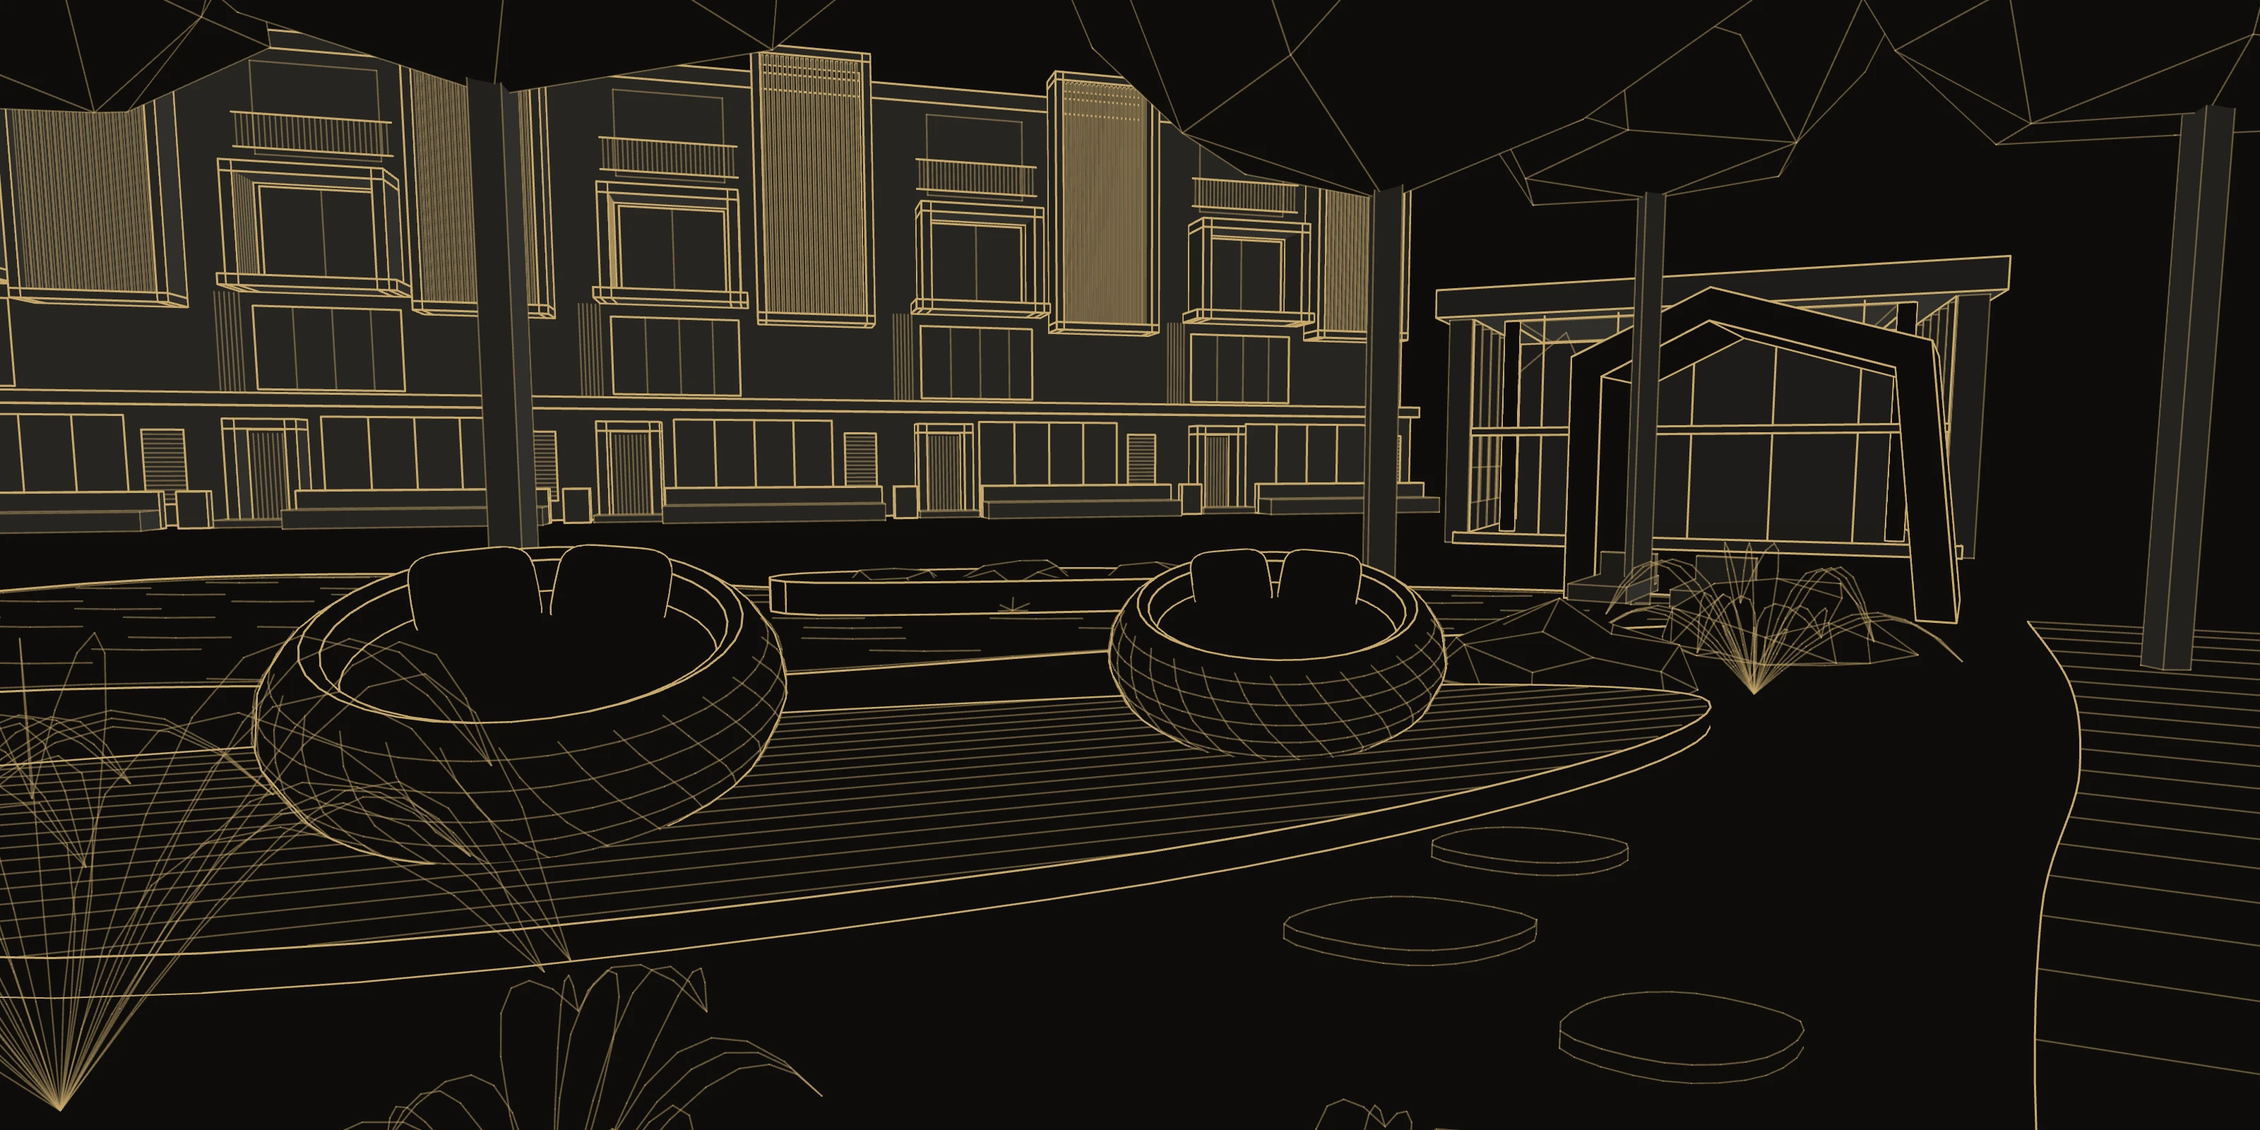
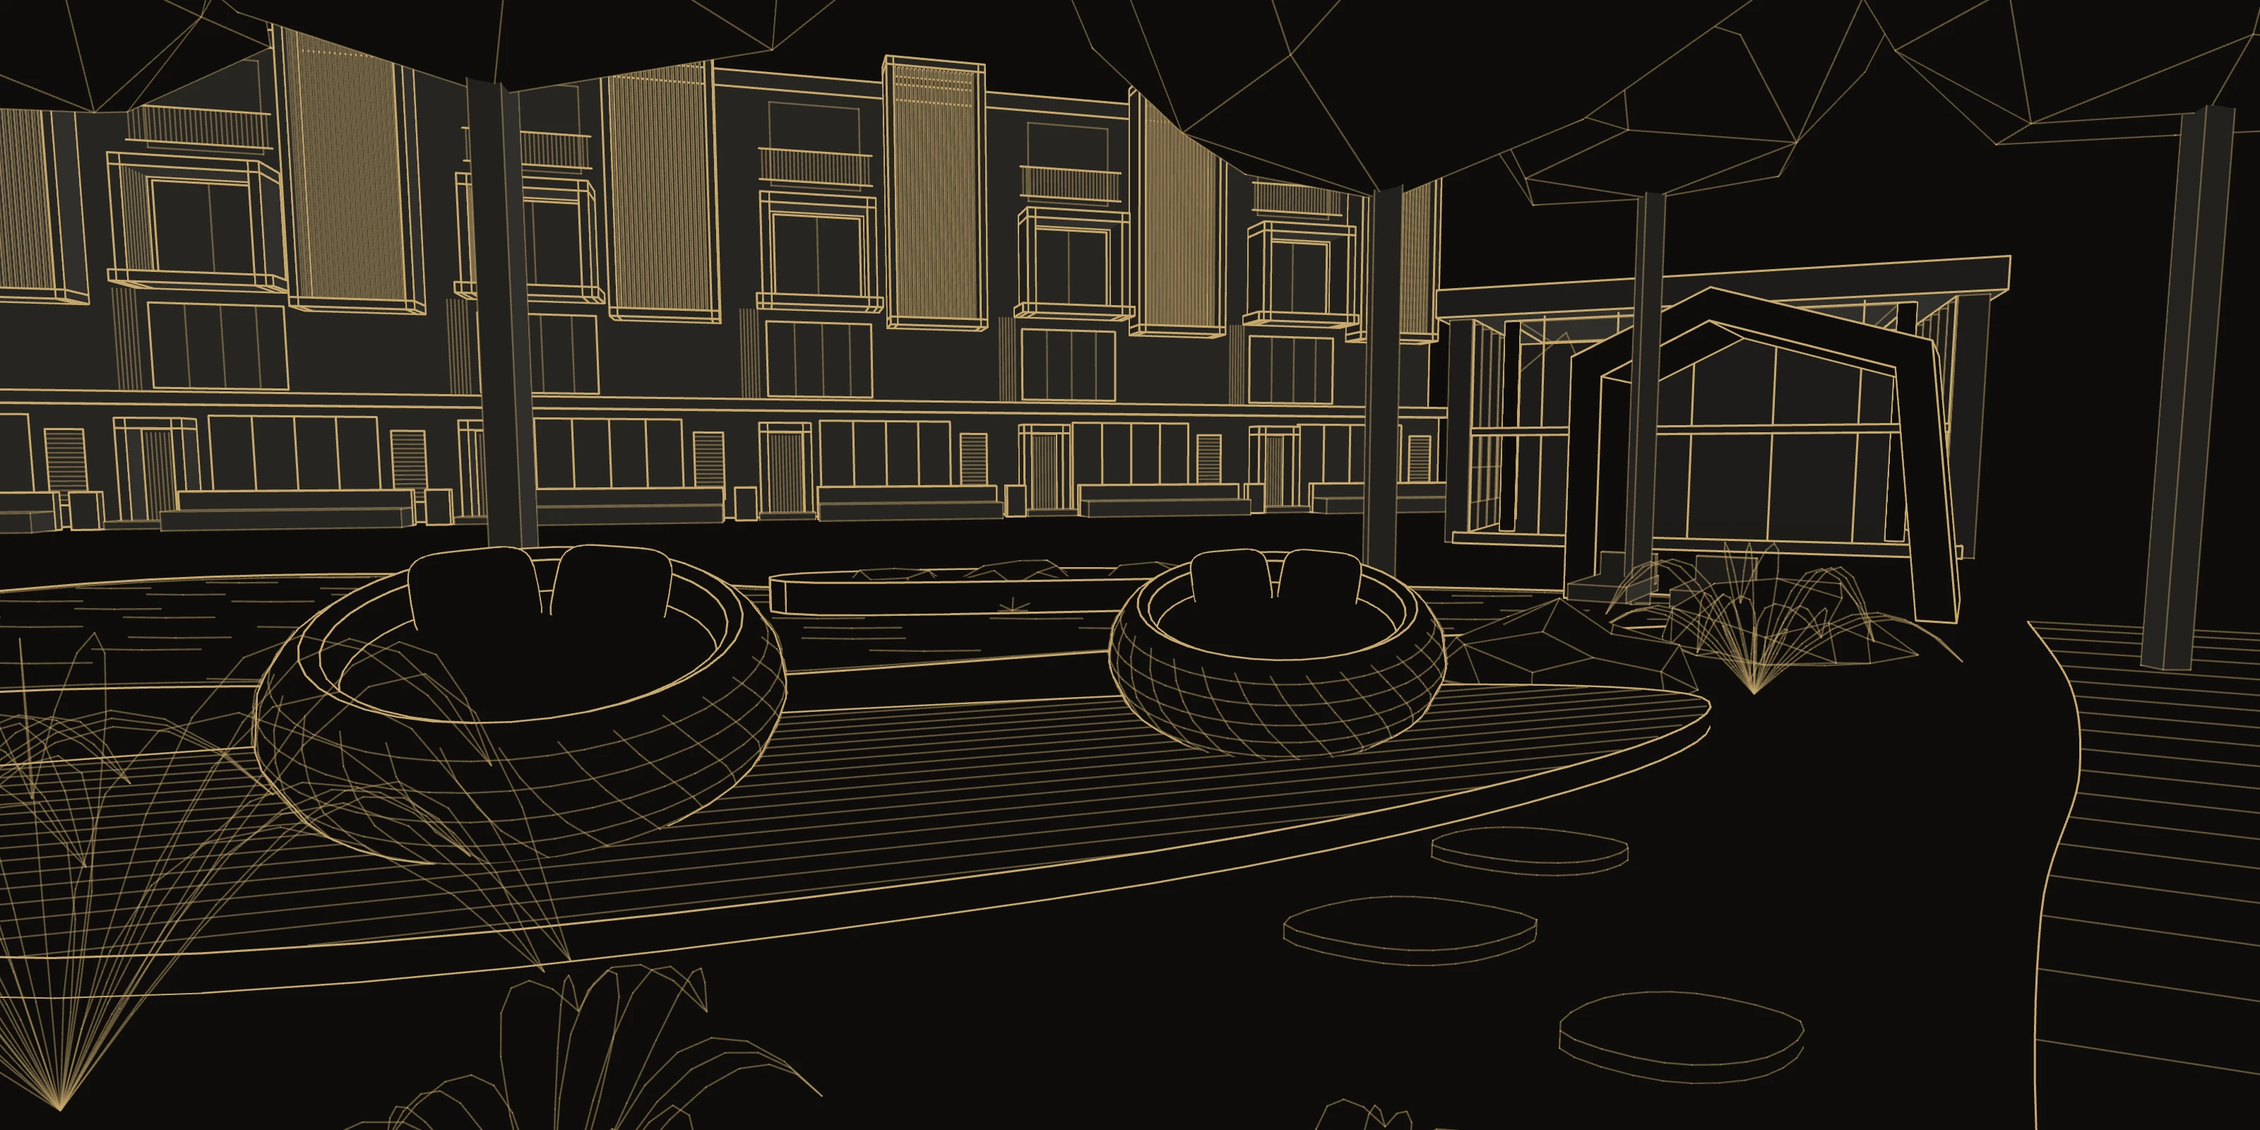
Use the brochure's plan widths, and say so
Courtyard Homes: the model is scaled so the upper floors are 9.15 m
across and the houses repeat at the 12.8 m plot width; the overlay
still lands on the render. Courtyard Villas: each home is 8.4 m wide
(rows elsewhere lengthened to fill their frames, stills regenerated).
The notes now say plan widths come from the developer's brochure and
heights are estimated from the render. Residences and the Idea chapter
gain facts from the brochure (plot and plan widths, the slope with the
car porch below the garden, the lift, the two villa types, gated and
guarded, dual-key layouts). The skill records the sources and rules.
Two stale lint errors in tools/ fixed. The brochure itself is not in
the repo.

Claude-Session: https://claude.ai/code/session_01C95DWHDY8NmwjfweiUBywE

Changed region(s): [[0.0, 0.0312, 0.6562, 0.4688]]

diff --git a/src/ink/homes.js b/src/ink/homes.js
@@ -1,15 +1,20 @@
 // Courtyard Homes for the ink stage: the middle house of the row in one-point perspective, a half of each neighbour.
-// Proportions are read off the developer's published render with the white frame as the ruler (7.70 m wide);
-// see docs/ink-plan.md, appendix A. Absolute sizes are not known. x runs along the street, y up, z towards the viewer;
-// the front face of the white frame is the plane z = 0.
+// Proportions are read off the developer's published render (docs/ink-plan.md, appendix A), in "render units" with the
+// white frame as 7.70. The developer's brochure gives the plan widths: the upper floors are 9.15 m across (frame to
+// dark tower) and a plot is 12.8 m wide, so everything is scaled by S to real metres. Heights are not in the brochure;
+// they follow the render at the same scale. This is the garden side: the house stands on a slope, with the car porch a
+// floor lower on the street side, so the glazed floor here is the brochure's Level 1.
+// x runs along the street, y up, z towards the viewer; the front face of the white frame is the plane z = 0.
 const WHITE = 0.97, DARK = 0.18, RECESS = 0.45, TIMBER = 0.76, METAL = 0.05, DECK = 0.9, SOFT = 0.62
 
-// eye 1.7 m, 26 m back, camera on the middle of the house
-export const VIEW = { cx: -0.2, cy: 6.4, width: 32, eye: 1.7, dist: 26, camX: -0.4 }
-export const CARD_VIEW = { ...VIEW, cx: -0.4, cy: 6.85, width: 29 }        // a 2:1 box under about 900 px: less street
-export const NARROW_VIEW = { ...VIEW, cx: -0.4, cy: 7.8, width: 21 }       // a squarer box, on a phone
-export const PITCH = 15.5                      // one house to the next, along the row (estimated)
-export const GROUND_Z = 2.8                    // front edge of the timber deck: where the ground line is drawn
+const S = 9.15 / (4.48 - -5.4)                   // render units → metres: frame-to-tower width is 9.15 m in the brochure
+const sv = (v) => ({ ...v, cx: v.cx * S, cy: v.cy * S, width: v.width * S, dist: v.dist * S, camX: v.camX * S })
+// eye 1.7 m, about 24 m back, camera on the middle of the house
+export const VIEW = sv({ cx: -0.2, cy: 6.4, width: 32, eye: 1.7, dist: 26, camX: -0.4 })
+export const CARD_VIEW = sv({ cx: -0.4, cy: 6.85, width: 29, eye: 1.7, dist: 26, camX: -0.4 })   // a 2:1 box under about 900 px: less street
+export const NARROW_VIEW = sv({ cx: -0.4, cy: 7.8, width: 21, eye: 1.7, dist: 26, camX: -0.4 })  // a squarer box, on a phone
+export const PITCH = 12.8                      // one house to the next along the row: the plot width in the brochure (2.15 + 10.65 m)
+export const GROUND_Z = 2.8 * S                // front edge of the timber deck: where the ground line is drawn
 
 // frame and bays
 const FX0 = -5.4, FX1 = 2.3, Y0 = 4.92, Y1 = 12.27, TB = 0.37, DZ = 1.2
@@ -20,30 +25,31 @@ const RW1 = 3.03, FIN1 = 3.39, FIN_TOP = 13.62, TW1 = 4.48, TW_TOP = 12.11
 const GX0 = -5.0, GL = [[-4.81, -1.24], [0.39, 3.96]], GY0 = 0.15, GY1 = 4.45, TRANSOM = 2.48, GZ = -0.25, ROOM = 5
 const S0 = 4.55, CX0 = -5.4, CX1 = 6.6, CZ = 0.62
 
-/** Rectangles tools/ink/overlay.cjs lays over the render: [x0, y0, x1, y1, z, group]. The bays are their openings in the frame face. */
+/** Rectangles tools/ink/overlay.cjs lays over the render: [x0, y0, x1, y1, z, group], in metres. The bays are their openings in the frame face. */
 export const OUTLINE = [
   [FX0, Y0, FX1, Y1, 0, 'frame'], [BX0, Y0, BX1, M0, 0, 'frame'], [BX0, M1, BX1, Y1 - TB, 0, 'frame'], [SX0, Y0, SX1, Y1 - TB, 0, 'frame'],
   [FIN1, Y0, TW1, TW_TOP, -0.3, 'frame'], [RW1, Y0, FIN1, FIN_TOP, -0.2, 'frame'],
   [CX0, S0, CX1, Y0, CZ + 0.08, 'slab'], [CX0, 3.23, CX1, S0, CZ, 'slab'],
   [GX0, 0, TW1, S0, 0, 'ground'], [GL[0][0], GY0, GL[0][1], GY1, GZ, 'ground'], [GL[1][0], GY0, GL[1][1], GY1, GZ, 'ground'],
-]
+].map(([a, b, c, d, z, g]) => [a * S, b * S, c * S, d * S, z * S, g])
 
 /** Things worth pointing at (x, y, z). Text states only what the render shows. */
 export const SPOTS = [
   { x: BX0 + 2.5, y: M1 + 2.1, z: -DZ, title: 'Recessed balconies', body: 'Two balconies, one above the other, set about a metre back inside a white frame, with sliding timber shutters either side of the glass.' },
   { x: (SX0 + SX1) / 2, y: Y0 + 2.2, z: -0.55, title: 'Timber screen', body: 'A full-height panel of upright timber fins beside the balconies, with glass behind it.' },
   { x: CX1 - 1.4, y: 3.9, z: CZ, title: 'Hanging slats', body: 'Horizontal timber slats hung from the edge of the first-floor slab, carried on past the end of the house.' },
-  { x: GL[1][0] + 1.2, y: 1.4, z: GZ, title: 'Ground floor', body: 'Glazed full height either side of a white pier. In the render a stair and furniture show through the glass.' },
+  { x: GL[1][0] + 1.2, y: 1.4, z: GZ, title: 'Garden floor', body: 'Glazed full height either side of a white pier, opening onto the garden. The house sits on a slope: in the brochure plans the car porch is a floor below, on the street side.' },
   { x: (FIN1 + TW1) / 2, y: 10.9, z: -0.3, title: 'Dark volume', body: 'A narrow dark block to one side with two small upright windows to the front.' },
-]
+].map((p) => ({ ...p, x: p.x * S, y: p.y * S, z: p.z * S }))
 
 /** One house. ox: offset along the row. faint: a neighbour, drawn a tone lighter and without the rooms behind its glass. */
 function house(k, ox = 0, faint = false) {
   const tone = (a) => (faint ? 1 - (1 - a) * 0.15 : a)
   const weight = (l) => (!faint || !l || l === 'hair' ? l : 'soft')
-  const box = (x, y, z, w, h, d, a = WHITE, o = {}) => k.box(x + ox, y, z, w, h, d, tone(a), { ...o, line: weight(o.line ?? 'main'), ...(faint ? { shade: false, flat: true } : {}) })
-  const seg = (pairs, l = 'main') => k.seg(pairs.map(([p, q]) => [[p[0] + ox, p[1], p[2]], [q[0] + ox, q[1], q[2]]]), weight(l))
-  const pane = (x0, y0, x1, y1, z, a0, a1) => k.pane(x0 + ox, y0, x1 + ox, y1, z, tone(a0), tone(a1))
+  // everything below is in render units; these three turn it into metres and place it along the row
+  const box = (x, y, z, w, h, d, a = WHITE, o = {}) => k.box(x * S + ox, y * S, z * S, w * S, h * S, d * S, tone(a), { ...o, line: weight(o.line ?? 'main'), ...(faint ? { shade: false, flat: true } : {}) })
+  const seg = (pairs, l = 'main') => k.seg(pairs.map(([p, q]) => [[p[0] * S + ox, p[1] * S, p[2] * S], [q[0] * S + ox, q[1] * S, q[2] * S]]), weight(l))
+  const pane = (x0, y0, x1, y1, z, a0, a1) => k.pane(x0 * S + ox, y0 * S, x1 * S + ox, y1 * S, z * S, tone(a0), tone(a1))
   const heavy = { line: 'heavy' }, none = { line: false }, clean = { line: false, clean: true }
   const bar = (x0, y0, x1, y1, z, d = 0.07) => box((x0 + x1) / 2, (y0 + y1) / 2, z, x1 - x0, y1 - y0, d, METAL, none)
 

diff --git a/tools/drawings/scenes/villas.js b/tools/drawings/scenes/villas.js
@@ -1,13 +1,15 @@
 // Courtyard Villas：照效果图画。沿着泳池一长排，一个单元一个单元重复：
 // 一整片白边框的竖木格栅（三楼到屋顶）、旁边一个往外挑的白色方框（里面木内衬 + 窗）、再上面一层凹阳台（黑栏杆）；
-// 底层玻璃，每户门口一个白色门框，木百叶小窗；前面一个自由曲线的泳池和小岛。米数是按图估的。
+// 底层玻璃，每户门口一个白色门框，木百叶小窗；前面一个自由曲线的泳池和小岛。
+// 立面细节按效果图量（一个单元当 9.6 个「图上单位」）；开发商手册给的每户宽是 8.4 m，所以沿排的方向乘 KX 缩到真实宽度。高度按图估。
 /** 一排 Courtyard Villas：从 x = ox 开始 n 个单元，正面朝 +z（在 z = oz），ry 转向。别的图（泳池、鸟瞰、健身房窗外）也用 */
-export function villaRow(k, { n = 7, ox = 0, oz = 0, ry = 0, ground = true, yard = false } = {}) {
+export function villaRow(k, { n = 8, ox = 0, oz = 0, ry = 0, ground = true, yard = false } = {}) {
   const { box: box0, seg: seg0 } = k
   // 局部坐标 → 世界：先绕 y 转 ry，再平移到 (ox, oz)
   const cs = Math.cos(ry), sn = Math.sin(ry)
-  const T = (x, y, z) => [ox + x * cs + z * sn, y, oz - x * sn + z * cs]
-  const box = (x, y, z, w, h, d, o = {}) => { const [X, , Z] = T(x, y, z); box0(X, y, Z, w, h, d, { ...o, ry: ry + (o.ry || 0) }) }
+  const KX = 8.4 / 9.6                                 // 手册：每户 8.4 m 宽
+  const T = (x, y, z) => [ox + x * KX * cs + z * sn, y, oz - x * KX * sn + z * cs]
+  const box = (x, y, z, w, h, d, o = {}) => { const [X, , Z] = T(x, y, z); box0(X, y, Z, w * KX, h, d, { ...o, ry: ry + (o.ry || 0) }) }
   const seg = (pairs, soft) => seg0(pairs.map(([p, q]) => [T(...p), T(...q)]), soft)
   const N = n, PITCH = 9.6, X1 = N * PITCH, G = 3.4, B = 3.75, TOP = 13.6
   const rect = (x0, y0, x1, y1, z, soft = true) => seg([[[x0, y0, z], [x1, y0, z]], [[x1, y0, z], [x1, y1, z]], [[x1, y1, z], [x0, y1, z]], [[x0, y1, z], [x0, y0, z]]], soft)
@@ -57,12 +59,12 @@ export function villaRow(k, { n = 7, ox = 0, oz = 0, ry = 0, ground = true, yard
       box(x + 6.0, 0.25, 2.3, 6.4, 0.5, 1.1, { soft: true })
     }
   }
-  return { x1: X1 }
+  return { x1: X1 * KX }
 }
 
 export default function villas(k) {
   const { tree, smoothLoop, loop, slabShape } = k
-  villaRow(k)
+  villaRow(k, { n: 8 })
   // ── 前面的泳池：自由曲线，池边一圈 + 里面一圈；中间一个种满植物的岛；走道边线
   const pool = smoothLoop([[-6, 4], [10, 3.6], [24, 5], [38, 4.4], [52, 6], [62, 9], [58, 15], [40, 13], [26, 17], [12, 15], [0, 18], [-10, 13]])
   loop(pool, 0.02); loop(pool.map(([x, z]) => [x + (x - 26) * -0.012, z + (z - 10) * -0.06]), 0.02, true)

diff --git a/src/components/Residences.jsx b/src/components/Residences.jsx
@@ -13,7 +13,8 @@ const units = [
     size: '6,649 – 9,053 sqft',
     price: 'From RM 8.1M',
     img: `${import.meta.env.BASE_URL}drawings/homes-ink.webp`,
-    live: true
+    live: true,
+    facts: 'Upper floors 9.15 m wide on a plot 12.8 m wide (3,175 – 3,466 sqft of land). Built into a slope: the car porch is at street level, the garden a floor up. A lift in every home.'
   },
   {
     type: '1.5 & 2-Storey Condominium',
@@ -23,7 +24,8 @@ const units = [
     size: '2,734 – 5,176 sqft',
     price: 'From RM 3.3M',
     img: `${import.meta.env.BASE_URL}drawings/villas-ink.webp`,
-    plate: 'villas'
+    plate: 'villas',
+    facts: 'Each home 8.4 m wide. Two kinds: 2-storey with 6 bedrooms, and 1.5-storey with 4 bedrooms, each with its own courtyard.'
   }
 ]
 
@@ -116,7 +118,8 @@ export default function Residences() {
             </div>
             <p className="res-note">
               {u.live ? 'Shadows follow the sun over George Town now · drag across to move the day. ' : 'Shadows follow the sun over George Town now. '}
-              Which way the {u.live ? 'house faces' : 'row faces'} is not known, so the light is kept in front; above 52° the sun is drawn at 52°. Not to scale.
+              Which way the {u.live ? 'house faces' : 'row faces'} is not known, so the light is kept in front; above 52° the sun is drawn at 52°.
+              Plan widths from the developer’s brochure; heights estimated from the render.
             </p>
 
             <div style={{
@@ -144,6 +147,7 @@ export default function Residences() {
                 <span>·</span>
                 <span>{u.parking} Parking</span>
               </div>
+              {u.facts && <p style={{ fontSize: '0.74rem', lineHeight: 1.8, color: 'rgba(42,38,34,0.62)', margin: '0 0 1.2rem', maxWidth: 460 }}>{u.facts}</p>}
               <div style={{
                 paddingTop: '1rem',
                 borderTop: '1px solid rgba(42,38,34,0.1)',

diff --git a/tools/drawings/scenes/gym.js b/tools/drawings/scenes/gym.js
@@ -90,8 +90,8 @@ export default function gym(k) {
   for (const x of [-1.85, -0.6, 0.65]) treadmill(k, x, 3.3)
   bike(k, 2.25, 3.7, 0.35)
   // 外面：两排别墅面对面
-  villaRow(k, { n: 7, ox: 12, oz: -58, ry: -Math.PI / 2, ground: false, yard: true })
-  villaRow(k, { n: 7, ox: -12, oz: 10, ry: Math.PI / 2, ground: false, yard: true })
+  villaRow(k, { n: 8, ox: 12, oz: -58, ry: -Math.PI / 2, ground: false, yard: true })
+  villaRow(k, { n: 8, ox: -12, oz: 10, ry: Math.PI / 2, ground: false, yard: true })
   // 长泳池：从亭子前面一直往里，尽头往左拐一点
   const pool = smoothLoop([[-4.4, -1.5], [4.6, -1.5], [4.4, -16], [3.8, -30], [3.2, -42], [0.5, -52], [-4, -56], [-6, -50], [-3.6, -40], [-3.8, -26], [-4.3, -12]], 6)
   loop(pool, 0.02); loop(pool.map(([x, z]) => [x * 0.9, z * 0.99 - 0.1]), 0.02, true)

diff --git a/tools/drawings/scenes/pool.js b/tools/drawings/scenes/pool.js
@@ -14,8 +14,8 @@ export default function pool(k) {
   const eye = [2.6, 1.7, 25]
   k.groundPlane()
   // 两排别墅：右边朝 -x、左边朝 +x，前院矮墙 + 花槽
-  villaRow(k, { n: 8, ox: 16, oz: -64, ry: -Math.PI / 2, ground: false, yard: true })
-  villaRow(k, { n: 8, ox: -16, oz: 14, ry: Math.PI / 2, ground: false, yard: true })
+  villaRow(k, { n: 9, ox: 16, oz: -64, ry: -Math.PI / 2, ground: false, yard: true })
+  villaRow(k, { n: 9, ox: -16, oz: 14, ry: Math.PI / 2, ground: false, yard: true })
   // 尽头的健身亭（正面朝这边），里面看得到几台跑步机
   pavilion(k, { ox: -1, oz: -23.5, W: 15, D: 9, H: 7, eye })
   for (const x of [-5, -3.4, -1.8]) treadmill(k, x, -26)

diff --git a/src/ink/InkDrawing.jsx b/src/ink/InkDrawing.jsx
@@ -7,7 +7,7 @@ import { dayOf, lightAt, clockOf } from './light'
 const INK = '#211e1a', PAPER = '#efe8da', ACC = '#bd7f1f', DISC = '#dba84a'
 const MIN = 60000
 // trees stand in the gaps between the houses, a little in front of the deck
-const TREES = [{ x: -7.2, z: GROUND_Z + 0.6, h: 8.6, seed: 7 }, { x: 8.4, z: GROUND_Z + 0.6, h: 8.2, seed: 21 }]
+const TREES = [{ x: -6.1, z: GROUND_Z + 0.8, h: 8.2, seed: 7 }, { x: 7.0, z: GROUND_Z + 0.8, h: 7.8, seed: 21 }]
 // a smaller or squarer box shows less street, so the house is drawn larger
 const NARROW = 560
 const viewFor = (w, h) => (h / w > 0.6 ? NARROW_VIEW : w < 900 ? CARD_VIEW : VIEW)

diff --git a/src/components/Idea.jsx b/src/components/Idea.jsx
@@ -52,8 +52,9 @@ export default function Idea() {
           {`239 homes on 12 acres,\nlaid out around courtyards.`}
         </SplitText>
         <p className="idea-fade idea-body">
-          An enclave in George Town with two home types — Courtyard Homes and Courtyard Villas —
-          set among gardens, pools and pedestrian bridges.
+          A low-density, gated and guarded enclave in George Town with two home types — Courtyard Homes and
+          Courtyard Villas — set among gardens, pools and pedestrian bridges. Dual-key layouts let several
+          generations live under one roof.
         </p>
       </div>
 

diff --git a/tools/drawings/scenes/entrance.js b/tools/drawings/scenes/entrance.js
@@ -16,8 +16,6 @@ export default function entrance(k) {
   const { box, seg, tree, bush, line } = k
   const eye = [-13.5, 1.6, 16]
   k.groundPlane()
-  const rectZ = (x0, y0, x1, y1, z, soft = false) => seg([[[x0, y0, z], [x1, y0, z]], [[x1, y0, z], [x1, y1, z]], [[x1, y1, z], [x0, y1, z]], [[x0, y1, z], [x0, y0, z]]], soft)
-  const rectX = (z0, y0, z1, y1, x, soft = false) => seg([[[x, y0, z0], [x, y0, z1]], [[x, y0, z1], [x, y1, z1]], [[x, y1, z1], [x, y1, z0]], [[x, y1, z0], [x, y0, z0]]], soft)
 
   // ── 大门框：左墙、右墙、厚屋顶板（门框进深 14 m）
   const X0 = -8, X1 = 8, D = 14, H = 8.6, T = 1.1

diff --git a/tools/drawings/kit.js b/tools/drawings/kit.js
@@ -209,7 +209,7 @@ export function makeKit(canvas, { palette = 'gold', width = 1600, height = 1000,
     seg(out, soft)
   }
   /** 侧面轮廓 [[z,y],...] 沿 x 挤出厚度 t（中心在 x）：跑步机扶手、单车车架这种斜的、弯的东西 */
-  function prismX(pts, x, t, { soft = false, angle = 25 } = {}) {
+  function prismX(pts, x, t) {
     const sh = new THREE.Shape(pts.map(([z, y]) => new THREE.Vector2(z, y)))
     const g = new THREE.ExtrudeGeometry(sh, { depth: t, bevelEnabled: false, curveSegments: 6 })
     g.rotateY(-Math.PI / 2); g.translate(x + t / 2, 0, 0)

diff --git a/tools/drawings/scenes/aerial.js b/tools/drawings/scenes/aerial.js
@@ -13,7 +13,7 @@ export default function aerial(k) {
   const { tree, bush, smoothLine, smoothLoop, loop, line, slabShape, seg, box } = k
   const eye = [-3.5, 21, 25]
   k.groundPlane()
-  villaRow(k, { n: 15, ox: -15, oz: 14, ry: Math.PI / 2, ground: false, yard: true })
+  villaRow(k, { n: 17, ox: -15, oz: 14, ry: Math.PI / 2, ground: false, yard: true })
 
   // ── 泳池：沿一条弯的中线，左右各一个随位置变的半宽，两边连成一圈
   const C = smoothLine([[-1, 16], [0.5, 4], [-2.5, -8], [1.5, -19], [-0.5, -30], [2.5, -41], [6.5, -50], [5, -58]], 6)

diff --git a/src/components/Facilities.jsx b/src/components/Facilities.jsx
@@ -136,7 +136,7 @@ export default function Facilities() {
             fontSize: '0.65rem', letterSpacing: '0.12em',
             color: 'rgba(240,232,213,0.3)',
             marginTop: '1rem'
-          }}>— drag or scroll to explore · shadows follow the sun over George Town now</p>
+          }}>— drag or scroll to explore · shadows follow the sun over George Town now · drawn from the developer’s renders, sizes estimated</p>
         </div>
 
         <div ref={trackRef} className="fac-track">

diff --git a/tools/drawings/scenes/lounge.js b/tools/drawings/scenes/lounge.js
@@ -76,7 +76,7 @@ export default function lounge(k) {
   k.groundPlane()
 
   // ── 后面：左后一排别墅（斜着往右后退），右后玻璃健身亭 + 折板门洞
-  villaRow(k, { n: 6, ox: -44, oz: -20, ry: 0.3, ground: false, yard: true })
+  villaRow(k, { n: 7, ox: -44, oz: -20, ry: 0.3, ground: false, yard: true })
   pavilion(k, { ox: 12.5, oz: -17, ry: -0.45, W: 9, D: 7, H: 5, eye })
   portal(k, 8.8, -8.5, -0.6)
 
